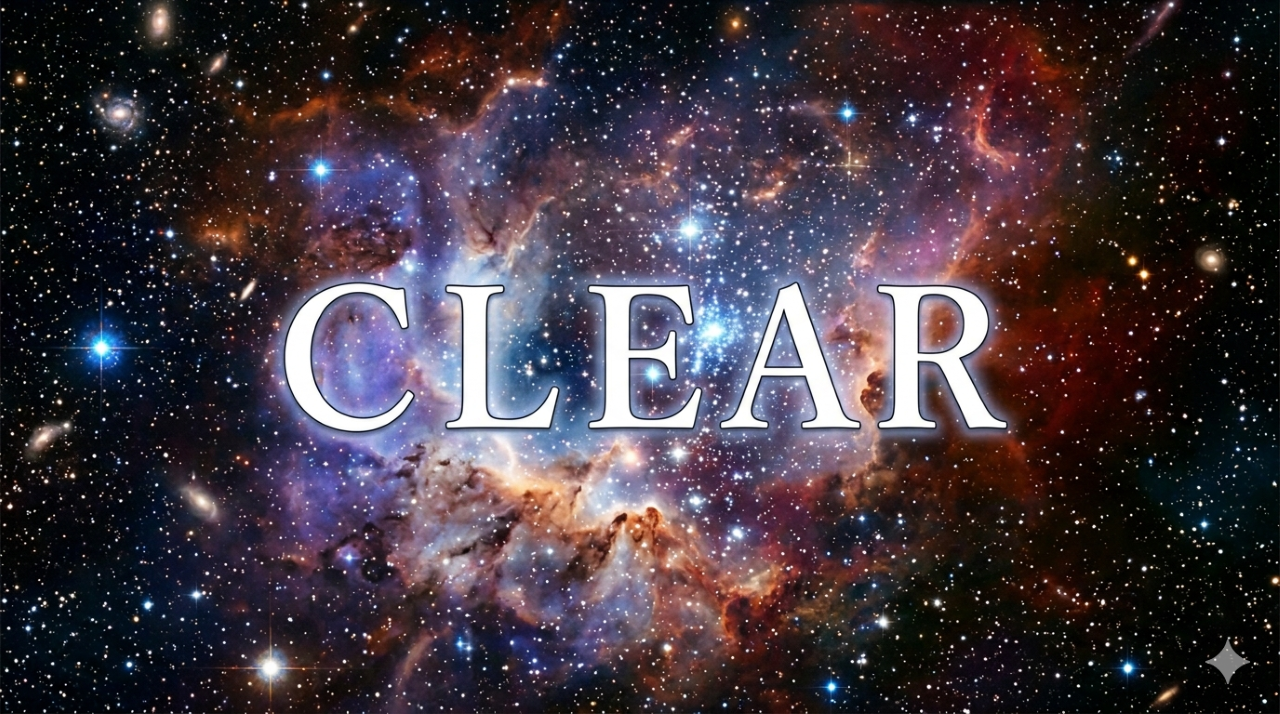
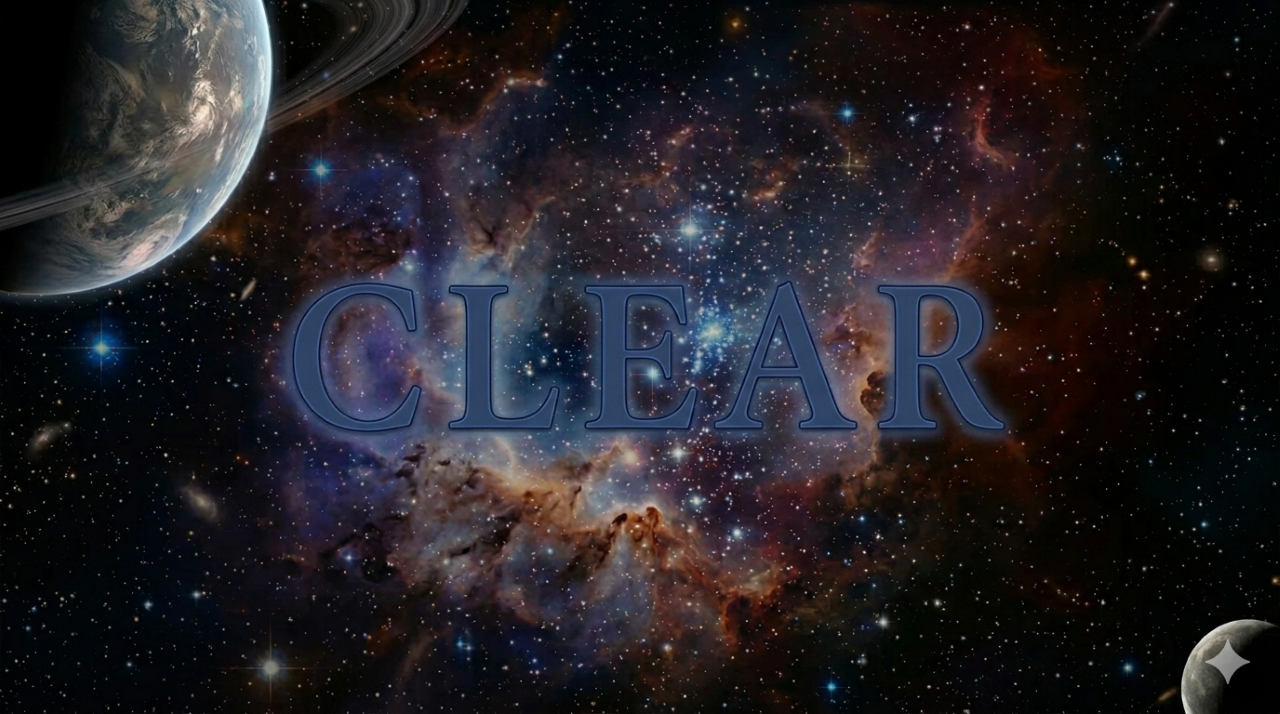
画像いじった

diff --git a/ClearScene.cpp b/ClearScene.cpp
@@ -3,14 +3,18 @@
 #include"Engine/Input.h"
 #include"Engine/SceneManager.h"
 
+
+
 ClearScene::ClearScene(GameObject* parent)
 {
 }
 
 void ClearScene::Initialize()
 {
-	hTitlePic_ = Image::Load("Clear.png");
+	hTitlePic_ = Image::Load("utyuu.png");
+	hTextPic_ = Image::Load("clear_moji.png");
 	assert(hTitlePic_ >= 0);
+	assert(hTextPic_ >= 0);
 }
 
 void ClearScene::Update()
@@ -20,15 +24,20 @@ void ClearScene::Update()
 		//シーンマネージャーを探して、シーン切り替えの関数を呼ぶ
 		// 見つからない場合はnullptrが返るので、nullptrでないことを確認してから呼ぶ
 		SceneManager* pSceneManager = (SceneManager*)(this->GetParent());
-		pSceneManager->ChangeScene(SCENE_ID_PLAY);
+		pSceneManager->ChangeScene(SCENE_ID_TEST);
 	}
 }
 
 void ClearScene::Draw()
 {
+
 	//transform_.scale_ = { 2.0f,2.0f,2.0f };      //画像サイズを二倍に
 	Image::SetTransform(hTitlePic_, transform_); //画像の位置や向きなどを設定
 	Image::Draw(hTitlePic_); //画像を描画
+
+	Image::SetTransform(hTextPic_, transform_); //文字画像の位置や向きなどを設定
+	Image::Draw(hTextPic_); //文字画像を描画
+
 }
 
 void ClearScene::Release()

diff --git a/ClearScene.h b/ClearScene.h
@@ -23,5 +23,8 @@ public:
 
 private:
 	int hTitlePic_; //タイトル画像のハンドル
+	int hTextPic_; //文字画像のハンドル
+	int WIN_WIDTH = 1280;
+	int WIN_HEIGHT = 720;
 };
 
